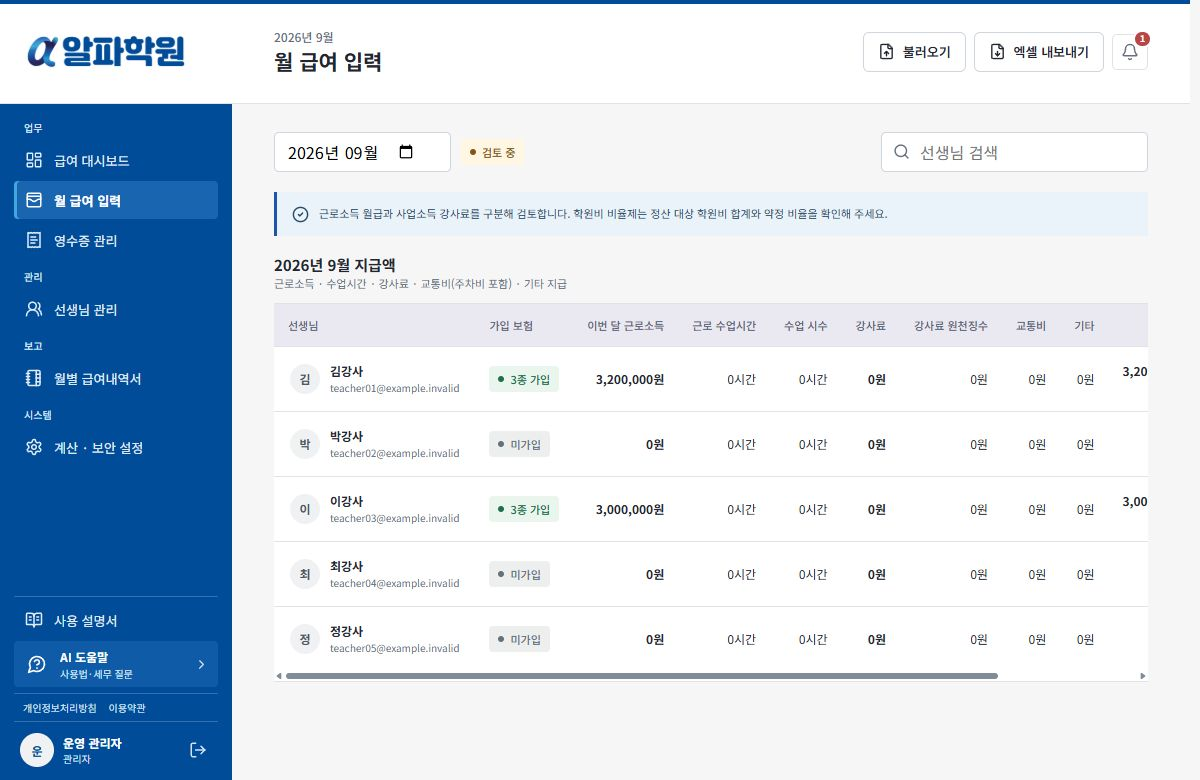
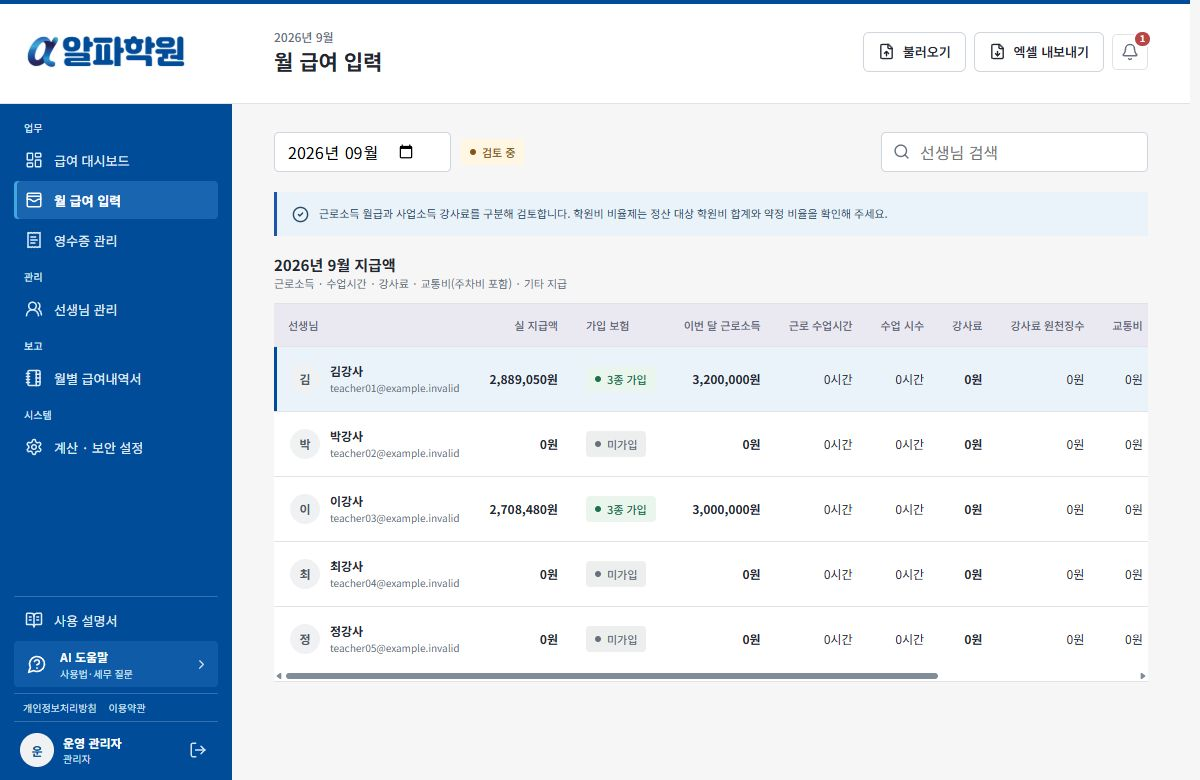
Improve monthly payroll row selection and payment field alignment

diff --git a/src/app.js b/src/app.js
@@ -622,36 +622,50 @@ function renderPayrollInputs() {
     <div class="notice ${missingInsuredSalary.length ? "warning" : ""}"><i data-lucide="${missingInsuredSalary.length ? "triangle-alert" : "circle-check"}"></i><span>${missingInsuredSalary.length ? `근로소득 월급이 입력되지 않은 보험 가입 선생님이 ${missingInsuredSalary.length}명 있습니다.` : "근로소득 월급과 사업소득 강사료를 구분해 검토합니다. 학원비 비율제는 정산 대상 학원비 합계와 약정 비율을 확인해 주세요."}</span></div>
     <section class="content-section">
       <div class="section-heading"><div><h2>${formatMonth(state.month)} 지급액</h2><p>근로소득 · 수업시간 · 강사료 · 교통비(주차비 포함) · 기타 지급</p></div></div>
-      <div class="data-surface table-scroll"><table><thead><tr><th>선생님</th><th>가입 보험</th><th class="numeric">이번 달 근로소득</th><th class="numeric">근로 수업시간</th><th class="numeric">수업 시수</th><th class="numeric">강사료</th><th class="numeric">강사료 3.3%</th><th class="numeric">교통비</th><th class="numeric">기타</th><th class="numeric">신고액</th><th>입력 상태</th></tr></thead><tbody>
+      <div class="data-surface table-scroll"><table><thead><tr><th>선생님</th><th class="numeric">실 지급액</th><th>가입 보험</th><th class="numeric">이번 달 근로소득</th><th class="numeric">근로 수업시간</th><th class="numeric">수업 시수</th><th class="numeric">강사료</th><th class="numeric">강사료 원천징수</th><th class="numeric">교통비</th><th class="numeric">기타</th><th class="numeric">신고액</th><th>입력 상태</th></tr></thead><tbody>
         ${teachers.map((teacher) => {
           const override = state.data.overrides[`${state.month}:${teacher.id}`];
           const settings = teacherPaySettings(teacher);
           const amounts = monthlyPayAmounts(teacher, state.month);
+          const payroll = payrollForTeacher(teacher.id, state.month)?.payroll;
           const total = amounts.totalGrossPay;
           const custom = override?.employeeGrossPay != null || Array.isArray(override?.businessWorkLines) || amounts.additionalGrossPay > 0;
           const missingSalary = settings.hasInsurance && amounts.employeeGrossPay <= 0;
           const insuranceCount = Object.values(settings.insuranceSettings).filter((item) => item.enrolled).length;
           const statusText = missingSalary ? "근로소득 필요" : amounts.tuitionPending ? "학원비 입력 대기" : amounts.unconfirmedCount ? `처리 확인 ${amounts.unconfirmedCount}건` : total > 0 ? "입력 완료" : "금액 미입력";
           const statusClass = total > 0 && !missingSalary && !amounts.tuitionPending && !amounts.unconfirmedCount ? "paid" : "pending";
-          return `<tr><td class="monthly-pay-person"><button class="person-edit-button" type="button" title="월 지급액 입력" aria-label="${e(teacher.name)} 월 지급액 입력" data-edit-monthly-pay="${e(teacher.id)}" ${locked ? "disabled" : ""}>${personCell(teacher)}</button></td><td><span class="status-chip ${insuranceCount ? "published" : "pending"}">${insuranceCount ? `${insuranceCount}종 가입` : "미가입"}</span></td><td class="numeric"><strong>${formatWon(amounts.employeeGrossPay)}</strong></td><td class="numeric">${formatHours(amounts.employeeWorkHours)}</td><td class="numeric">${formatHours(amounts.businessHours)}</td><td class="numeric"><strong>${formatWon(amounts.businessGrossPay)}</strong></td><td class="numeric">${formatWon(estimatedBusinessWithholding(amounts.businessGrossPay))}</td><td class="numeric">${formatWon(amounts.transportAmount + amounts.parkingAmount)}</td><td class="numeric">${formatWon(amounts.otherPaymentAmount)}</td><td class="numeric"><strong>${formatWon(total)}</strong><div class="cell-subtext">${custom ? "이번 달 입력" : "기본값"}</div></td><td><span class="status-chip ${statusClass}">${e(statusText)}</span></td></tr>`;
-        }).join("") || emptyRow(11)}
+          return `<tr class="monthly-pay-row" data-monthly-pay-row="${e(teacher.id)}" data-editable="${!locked}"><td class="monthly-pay-person"><button class="person-edit-button" type="button" title="월 지급액 선택" aria-label="${e(teacher.name)} 월 지급액 입력" aria-pressed="false" data-edit-monthly-pay="${e(teacher.id)}" ${locked ? "disabled" : ""}>${personCell(teacher)}</button></td><td class="numeric"><strong>${formatWon(payroll?.net || 0)}</strong></td><td><span class="status-chip ${insuranceCount ? "published" : "pending"}">${insuranceCount ? `${insuranceCount}종 가입` : "미가입"}</span></td><td class="numeric"><strong>${formatWon(amounts.employeeGrossPay)}</strong></td><td class="numeric">${formatHours(amounts.employeeWorkHours)}</td><td class="numeric">${formatHours(amounts.businessHours)}</td><td class="numeric"><strong>${formatWon(amounts.businessGrossPay)}</strong></td><td class="numeric">${formatWon(payroll?.reporting?.lectureWithholding || 0)}</td><td class="numeric">${formatWon(amounts.transportAmount + amounts.parkingAmount)}</td><td class="numeric">${formatWon(amounts.otherPaymentAmount)}</td><td class="numeric"><strong>${formatWon(total)}</strong><div class="cell-subtext">${override?.excelPay ? "엑셀 직접 입력" : custom ? "이번 달 입력" : "기본값"}</div></td><td><span class="status-chip ${statusClass}">${e(statusText)}</span></td></tr>`;
+        }).join("") || emptyRow(12)}
       </tbody></table></div>
     </section>
   `;
   bindCommonControls();
-  elements.content.querySelector("thead th:nth-child(7)").textContent = "강사료 원천징수";
-  elements.content.querySelectorAll("[data-edit-monthly-pay]").forEach((button) => {
-    const teacher = teacherById(button.dataset.editMonthlyPay);
-    const row = button.closest("tr");
-    row.cells[6].textContent = formatWon(payrollForTeacher(teacher.id, state.month)?.payroll.reporting?.lectureWithholding || 0);
-    if (state.data.overrides[`${state.month}:${teacher.id}`]?.excelPay) row.cells[9].querySelector(".cell-subtext").textContent = "엑셀 직접 입력";
-  });
-  elements.content.querySelectorAll("[data-edit-monthly-pay]").forEach((button) => button.addEventListener("click", () => {
-    const teacher = teacherById(button.dataset.editMonthlyPay);
-    if (teacher) openMonthlyPayModal(teacher);
-  }));
+  bindMonthlyPayRows(locked);
   elements.topbarActions.querySelector("[data-import-payroll]").addEventListener("click", openPayrollExcelImport);
   elements.topbarActions.querySelector("[data-export-payroll]").addEventListener("click", exportMonthlyPayrollExcel);
+}
+
+function bindMonthlyPayRows(locked) {
+  if (locked) return;
+  let selectedRow = null;
+  const markSelected = (row, selected) => {
+    row.classList.toggle("selected-row", selected);
+    const button = row.querySelector("[data-edit-monthly-pay]");
+    button.setAttribute("aria-pressed", String(selected));
+    button.title = selected ? "월 지급액 수정" : "월 지급액 선택";
+  };
+  elements.content.querySelectorAll("[data-monthly-pay-row]").forEach((row) => row.addEventListener("click", () => {
+    if (runForMonth(state.month).status === "published") return;
+    if (selectedRow === row) {
+      const teacher = teacherById(row.dataset.monthlyPayRow);
+      if (teacher) openMonthlyPayModal(teacher);
+      return;
+    }
+    if (selectedRow) markSelected(selectedRow, false);
+    selectedRow = row;
+    markSelected(row, true);
+    row.querySelector("[data-edit-monthly-pay]").focus({ preventScroll: true });
+  }));
 }
 
 function renderTeachers() {

diff --git a/src/data/help-content.js b/src/data/help-content.js
@@ -186,7 +186,7 @@ export const helpArticles = [
       "월 급여 입력에서 급여월을 선택합니다.",
       "상단 종 아이콘에서 수업시간 알림은 월 지급액 입력 창을, 영수증 알림은 증빙 검토 창을 엽니다.",
       "각 선생님의 보험 가입, 기본 근로소득과 사업소득 시급·약정 비율을 확인합니다.",
-      "선생님 이름·이메일이 있는 칸을 클릭해 월 지급액 입력 창을 엽니다. 근로 수업시간과 시급 항목별 사업소득 수업시간을 확인하고 누락이나 오류를 수정합니다.",
+      "표는 선생님, 실 지급액, 가입 보험 순서로 시작하며 실 지급액은 공제 후 금액입니다. 선생님 행의 칸을 한 번 누르면 선택되고 선택된 행을 다시 누르면 월 지급액 입력 창이 열립니다. 다른 행을 누르면 선택만 이동합니다. Tab으로 선생님 칸에 이동한 뒤 Enter나 Space도 같은 순서로 사용할 수 있습니다. 근로 수업시간과 시급 항목별 사업소득 수업시간을 확인하고 누락이나 오류를 수정합니다.",
       "근로소득 계약은 근로 항목만, 사업소득 계약은 사업 항목만, 혼합 계약은 둘 다 표시합니다. 사업소득도 등록된 시급·비율·혼합에 맞는 항목만 표시합니다. 월급·시급·약정 비율은 읽기 전용이며 월별 시간과 해당 수업 전체 학원비를 입력합니다.",
       "계약 변경은 월 지급액 창의 선생님 정보 수정에서 합니다. 별도 창에서 저장하거나 취소하면 입력하던 월 지급액 창으로 돌아오며, 시간·학원비·교통비·기타 지급·메모는 유지합니다. 새 시급·비율로 다시 계산하고 계약에서 삭제한 수업 항목은 제외 알림을 표시합니다.",
       "선생님 정보는 별도 창에서 즉시 저장되지만 월 급여는 돌아온 창에서 저장해야 반영됩니다. 기본 월급이나 소득 구성을 바꾼 경우 해당 월의 근로소득도 새 계약에 맞게 표시·저장합니다. 계약을 바꾸지 않았다면 기존 월 근로소득 직접값을 유지합니다. 발행된 명세서는 바꾸지 않습니다.",
@@ -205,7 +205,7 @@ export const helpArticles = [
       "엑셀 J 교통비에는 교통비와 주차비를 합산하고 K 기타에는 기타비만 넣습니다. 승인 영수증도 포함하며, 불러올 때 기존 주차비와 승인 교통비 영수증을 유지하고 나머지를 직접 입력 교통비로 반영합니다. 이전 내보내기 파일에 K 기타 = 주차비 + 기타 지급 표기가 남아 있으면 이전 합산 방식으로 읽습니다. E 신고액·M 지급액·X 보험료 합계는 비교용입니다. 차이를 확인하고 소득 구분을 검토합니다.",
       "엑셀 내보내기는 미확정 월의 활성 선생님 전체 또는 해당 월의 확정 명세서를 원본 A~X열 양식으로 저장합니다. 확정 후 비활성화한 선생님도 확정본에 포함됩니다. 주민등록번호·주소·은행·계좌번호는 가져오지 않고 내보낼 때도 빈칸입니다. 산정 근거와 소득 배분을 모두 보관하는 백업은 아닙니다.",
       "새 계산의 엑셀 내보내기 R·S열은 실제 공제액인 0원이며 관리자 참고액은 내보내지 않습니다. 다시 불러오면 0원도 직접 참고액으로 반영되므로 확인합니다. 이미 발행된 명세서는 당시 공제액을 유지합니다.",
-      "엑셀로 가져온 행도 선생님 칸을 클릭해 엽니다. 소득 구분에 맞는 직접 입력 항목을 표시하며 근로소득은 읽기 전용입니다. 선생님 정보 수정 후에도 입력 중이던 직접값을 유지합니다. 엑셀 강사료는 시급·비율을 바꿔도 자동 재산정하지 않으므로 산정 방식으로 돌아가려면 직접 입력 해제 후 수업 내역을 확인합니다. 엑셀 불러오기의 변경 전후 확인 절차와 기존 수업 내역·제출값은 유지합니다.",
+      "엑셀로 가져온 행도 한 번 눌러 선택한 뒤 다시 눌러 엽니다. 소득 구분에 맞는 직접 입력 항목을 표시하며 근로소득은 읽기 전용입니다. 선생님 정보 수정 후에도 입력 중이던 직접값을 유지합니다. 엑셀 강사료는 시급·비율을 바꿔도 자동 재산정하지 않으므로 산정 방식으로 돌아가려면 직접 입력 해제 후 수업 내역을 확인합니다. 엑셀 불러오기의 변경 전후 확인 절차와 기존 수업 내역·제출값은 유지합니다.",
       "신고액, 강사료 원천징수와 예상 지급액을 확인합니다.",
       "처리 미확인 항목과 보험 가입 선생님의 근로소득 누락이 없는지 확인합니다."
     ],
@@ -214,7 +214,7 @@ export const helpArticles = [
         src: "./docs/images/guide-05-payroll-input.png",
         width: 1200, height: 780,
         alt: "선생님별 월 급여 입력 화면",
-        caption: "선생님 이름·이메일이 있는 칸을 클릭해 해당 월 입력 창을 엽니다."
+        caption: "실 지급액과 가입 보험을 확인하고, 선생님 행을 한 번 눌러 선택한 뒤 다시 눌러 월 입력 창을 엽니다."
       },
       {
         src: "./docs/images/guide-05-monthly-form.png",

diff --git a/styles.css b/styles.css
@@ -189,7 +189,9 @@ td.numeric, th.numeric { text-align: right; font-variant-numeric: tabular-nums; 
 .person-cell { display: flex; align-items: center; gap: 10px; min-width: 140px; }
 .monthly-pay-person { padding: 0; }
 .person-edit-button { display: flex; align-items: center; width: 100%; min-height: 64px; padding: 14px 16px; border: 0; border-radius: 0; background: transparent; text-align: left; cursor: pointer; }
-.person-edit-button:not(:disabled):hover { background: var(--brand-pale); }
+.monthly-pay-row[data-editable="true"] { cursor: pointer; }
+.monthly-pay-row.selected-row, .monthly-pay-row.selected-row:hover { background: var(--brand-pale); }
+.monthly-pay-row.selected-row > td:first-child { box-shadow: inset 3px 0 var(--brand); }
 .person-edit-button:focus-visible { outline: 2px solid var(--brand); outline-offset: -3px; }
 .person-edit-button:disabled { cursor: default; opacity: 1; }
 .person-cell .avatar { flex: 0 0 auto; width: 30px; height: 30px; color: #4c5664 !important; background: #f0f1f3; }
@@ -402,6 +404,8 @@ td.numeric, th.numeric { text-align: right; font-variant-numeric: tabular-nums; 
 .receipt-review-reject { display: flex; justify-content: flex-start; margin-top: 18px; padding-top: 16px; border-top: 1px solid var(--line); }
 .selected-row { background: var(--brand-pale); }
 .form-field { display: grid; gap: 6px; }
+#teacher-edit-form > .form-field { align-content: start; }
+#teacher-edit-payday, #teacher-edit-status { height: 44px; }
 .form-field.full { grid-column: 1 / -1; }
 .form-field label { font-size: 11px; font-weight: 600; }
 .form-field input, .form-field select, .form-field textarea { width: 100%; min-height: 40px; padding: 8px 10px; border: 1px solid var(--line-strong); border-radius: 5px; background: var(--surface); }

diff --git a/docs/user-guide.md b/docs/user-guide.md
@@ -93,7 +93,7 @@ Google 이메일, 계정 상태, 근로소득 월급, 보험별 신고 기준액
 2. 혼합에서 `수업 전체 학원비 비율 포함`을 체크하면 약정 비율 하나와 최대 9개 시급을 함께 적용합니다. 체크하지 않으면 최대 10개 시급만 계산합니다. 근로소득·사업소득 구분은 이 계산 방식과 별도로 유지합니다.
 3. 비율제의 `약정 비율`에 예를 들어 `40`을 입력하고 저장합니다. 비율은 0 초과 100 이하이며 소수점 둘째 자리까지 입력합니다. 이 단계에서는 월 학원비가 없어도 등록할 수 있습니다.
 4. 선생님은 `수업 내역 입력`에서 대상 월의 `해당 수업 전체 학원비`를 입력합니다. 아직 모르면 비워 저장하고 관리자가 나중에 입력하도록 할 수 있습니다.
-5. 관리자는 `월 급여 입력`에서 해당 선생님 칸을 눌러 제출 내용을 확인하거나 직접 입력합니다. 환불·할인 등은 계약상 정산 기준에 따라 총액에 반영하고, 비율 정산 대상이 아닌 수업은 포함하지 않습니다.
+5. 관리자는 `월 급여 입력`에서 해당 선생님 행을 눌러 선택한 뒤 다시 눌러 제출 내용을 확인하거나 직접 입력합니다. 환불·할인 등은 계약상 정산 기준에 따라 총액에 반영하고, 비율 정산 대상이 아닌 수업은 포함하지 않습니다.
 6. 해당 수업 전체 학원비가 `5,000,000원`이면 40% 적용 강사료는 `2,000,000원`이며 원 미만은 반올림합니다. 시급 5만 원의 수업 10시간도 있으면 강사료 합계는 `2,500,000원`입니다.
 7. 미입력은 `학원비 입력 대기`로 표시되고 급여 확정이 차단됩니다. 정산 대상 학원비가 없는 달은 전체 학원비에 `0`을 입력해 0원 정산임을 확인합니다.
 8. 관리자가 저장한 전체 학원비·월별 비율은 선생님 재제출로 덮어쓰지 않습니다. 새 제출값과 다르면 관리자가 `선생님 제출값 반영`으로 선택해 반영하고 저장합니다.
@@ -124,7 +124,7 @@ Google 이메일, 계정 상태, 근로소득 월급, 보험별 신고 기준액
 1. `월 급여 입력`에서 급여월을 선택합니다.
 2. 상단 종 아이콘에서 수업시간 제출 알림은 해당 선생님의 월 지급액 입력 창을, 영수증 제출 알림은 해당 영수증 검토 창을 엽니다.
 3. 각 선생님의 보험 가입, 이번 달 근로소득과 등록된 사업소득 시급·약정 비율을 확인합니다.
-4. 선생님 이름·이메일이 있는 칸을 클릭하면 월 지급액 입력 창이 열립니다. 제출된 수업시간과 해당 수업 전체 학원비를 확인하고 누락이나 오류를 수정합니다. 관리자가 저장한 학원비는 선생님 재제출로 덮어쓰지 않으며, 필요한 경우 `선생님 제출값 반영`을 누르고 저장합니다.
+4. 표는 `선생님 → 실 지급액 → 가입 보험` 순서로 시작하며 실 지급액은 공제 후 금액입니다. 선생님 행의 칸을 한 번 누르면 선택되고, 선택된 행을 다시 누르면 월 지급액 입력 창이 열립니다. 다른 행을 누르면 선택만 이동합니다. 키보드에서는 선생님 칸에 Tab으로 이동한 뒤 Enter 또는 Space를 같은 순서로 사용합니다. 제출된 수업시간과 해당 수업 전체 학원비를 확인하고 누락이나 오류를 수정합니다. 관리자가 저장한 학원비는 선생님 재제출로 덮어쓰지 않으며, 필요한 경우 `선생님 제출값 반영`을 누르고 저장합니다.
 5. 근로소득 계약은 근로소득과 근로 수업시간만, 사업소득 계약은 사업소득만 표시하고 혼합 계약은 둘 다 표시합니다. 사업소득도 등록된 시급·비율·혼합에 맞는 항목만 표시합니다. 월급·시급·약정 비율은 읽기 전용이고 월별 시간과 해당 수업 전체 학원비만 입력합니다. 보험 신고 기준액은 별도로 입력하지 않고 근로소득에 연동됩니다.
 6. 교통비는 주차비를 포함해 지급 횟수와 1회 금액으로 입력합니다. 월 합계로 입력하려면 횟수를 1로 두고 합계 금액을 입력합니다. 기타 지급은 별도 항목으로 입력합니다. 승인 영수증 금액과 이전에 저장한 주차비는 자동 합산되므로 다시 입력하지 않습니다.
 7. 교통비·기타 지급마다 `사업소득 3.3%`, `근로소득 과세`, `비과세 실비`, `기타소득` 중 세무사가 확인한 처리를 선택합니다. 이전 주차비가 남아 있으면 `이전 주차비 내역`에서 과세 처리만 확인할 수 있습니다. 아직 확인 전이면 `처리 미확인`으로 두되 급여를 확정할 수는 없습니다.
@@ -154,7 +154,7 @@ Google 이메일, 계정 상태, 근로소득 월급, 보험별 신고 기준액
 5. H열은 강사료 원천징수 합계, L열은 교통비·기타 지급의 별도 원천징수 합계입니다. R·S열 근로소득세·지방소득세는 관리자 참고액으로만 반영하고 공제하지 않습니다. T~W열은 보험별 공제액입니다. H·L은 계속 공제하므로 근로소득 참고 세금을 이 열에 중복 입력하지 않습니다. 혼합 소득의 L열 공제는 어느 명세서에 반영할지 선택합니다.
 6. J열 교통비는 교통비와 주차비 합계이며 승인 영수증 금액도 포함합니다. 불러올 때 기존 주차비와 승인된 교통비 영수증은 유지하고 나머지를 직접 입력 교통비로 반영합니다. 이 합계보다 작은 금액은 반영하지 않습니다. K열 기타는 기타비만 반영합니다. 교통비·기타 지급의 소득 구분도 확인합니다. 이전에 내보낸 파일에 `K 기타 = 주차비 + 기타 지급` 표기가 남아 있으면 해당 파일만 이전 합산 방식으로 읽습니다.
 7. 기존·적용 후·산정 기준 계산 금액과 `항목별 변경 전후`를 확인하고 반영할 선생님만 선택합니다. 빈칸은 기존 값 유지, `0`은 명시적인 0원 입력입니다. E·M·X열은 합계 비교용이며 지급이나 공제에 중복 합산하지 않습니다. 합계가 다르면 차이 확인란을 추가로 선택합니다.
-8. 반영된 금액은 `엑셀 직접 입력`으로 표시됩니다. 기존 시급·비율제 산정 근거와 선생님 제출값은 보존됩니다. 선생님 칸을 클릭하면 소득 구분에 맞는 직접 입력 항목을 표시합니다. 근로소득은 읽기 전용이며 `선생님 정보 수정` 창으로 이동했다 돌아와도 입력 중이던 직접값은 유지됩니다. 엑셀 직접 입력 강사료는 시간·학원비로 산출한 금액이 아니므로 시급·비율을 바꿔도 자동 재산정하지 않습니다. 산정 방식으로 돌아가려면 직접 입력 해제 후 수업 내역을 확인합니다. 엑셀 불러오기로 금액을 반영하는 절차는 기존대로 변경 전후를 확인합니다. 확정·공개·메일 발송은 자동 실행되지 않습니다.
+8. 반영된 금액은 `엑셀 직접 입력`으로 표시됩니다. 기존 시급·비율제 산정 근거와 선생님 제출값은 보존됩니다. 선생님 행을 선택한 뒤 다시 누르면 소득 구분에 맞는 직접 입력 항목을 표시합니다. 근로소득은 읽기 전용이며 `선생님 정보 수정` 창으로 이동했다 돌아와도 입력 중이던 직접값은 유지됩니다. 엑셀 직접 입력 강사료는 시간·학원비로 산출한 금액이 아니므로 시급·비율을 바꿔도 자동 재산정하지 않습니다. 산정 방식으로 돌아가려면 직접 입력 해제 후 수업 내역을 확인합니다. 엑셀 불러오기로 금액을 반영하는 절차는 기존대로 변경 전후를 확인합니다. 확정·공개·메일 발송은 자동 실행되지 않습니다.
 9. `엑셀 내보내기`는 미확정 월의 활성 선생님 전체를 원본과 같은 A~X열 형식으로 저장합니다. 사이트와 엑셀 모두 교통비에 주차비를 합산하며, 엑셀 J열은 교통비 합계, K열은 기타비만 넣습니다. 확정된 월은 이후 비활성화된 선생님도 포함해 당시 확정 명세서의 금액을 내보냅니다. 검색 필터와 관계없이 전체가 포함됩니다. 개인정보 열인 주민등록번호·주소·은행·계좌번호는 불러오지 않고 내보낼 때도 빈칸입니다.
 
 원본 형식에는 시급별 시간, 비율제 학원비 근거, 소득 배분, 별도 주차비와 기타 공제 칸이 없습니다. 이 엑셀은 전체 데이터 백업이 아니며, 다른 월에 다시 가져올 때 배분·주차비·기타 공제를 별도로 확인해야 합니다. 기타 공제는 비고에 표시하고 실제 지급액에는 포함합니다. 수식은 실행하지 않고 파일에 저장된 계산 결과만 읽습니다. 계산 결과가 없으면 엑셀에서 다시 계산하고 저장해 주세요.

diff --git a/docs/qa.md b/docs/qa.md
@@ -74,7 +74,7 @@ node --test tests/teacher-rules-emulator.test.mjs
 node --test tests/monthly-pay-input.test.mjs tests/teacher-pay-settings.test.mjs tests/money-inputs.test.mjs tests/payroll.test.mjs tests/payroll-excel.test.mjs tests/admin-teacher-account.test.mjs tests/payslip-layout.test.mjs tests/help-guide.test.mjs tests/help-assistant.test.mjs tests/overlays.test.mjs tests/scroll-behavior.test.mjs tests/tuition-total-ui.test.mjs tests/tuition-share.test.mjs
 ```
 
-- 선생님 칸 클릭·Enter로 입력 창을 열며, 연필 작업 열이 없고 확정 월에는 입력 버튼이 잠기는지 확인합니다.
+- 표 앞부분이 선생님·공제 후 실 지급액·가입 보험 순서이고 엑셀 원천징수·입력 상태가 해당 열에 표시되는지 확인합니다. 행 첫 클릭은 선택만, 같은 행의 재클릭은 입력 창 열기이며 다른 행은 선택만 이동합니다. 이름 버튼의 Enter·Space도 같은 순서이고 확정 월에는 동작하지 않는지 확인합니다.
 - 월 근로소득은 읽기 전용이고 계약을 바꾸지 않은 저장 요청에는 근로소득·보험 기준액 필드가 없는지, 기존 값·명시적 0원이 그대로 유지되는지 검사합니다.
 - 근로·사업·혼합 소득과 시급·비율·병행 계약별로 필요한 입력만 표시하고 월 입력에서 시급 추가·삭제·금액·비율 변경을 허용하지 않는지 확인합니다.
 - 별도 선생님 정보 수정 창의 저장·취소·닫기·Esc 후 입력 중인 월 급여로 복귀하는지, 미완성 기타 항목과 교통비·메모를 보존하는지 확인합니다. 저장 중 닫기는 차단하고 오류 시 수정 창을 유지합니다.
